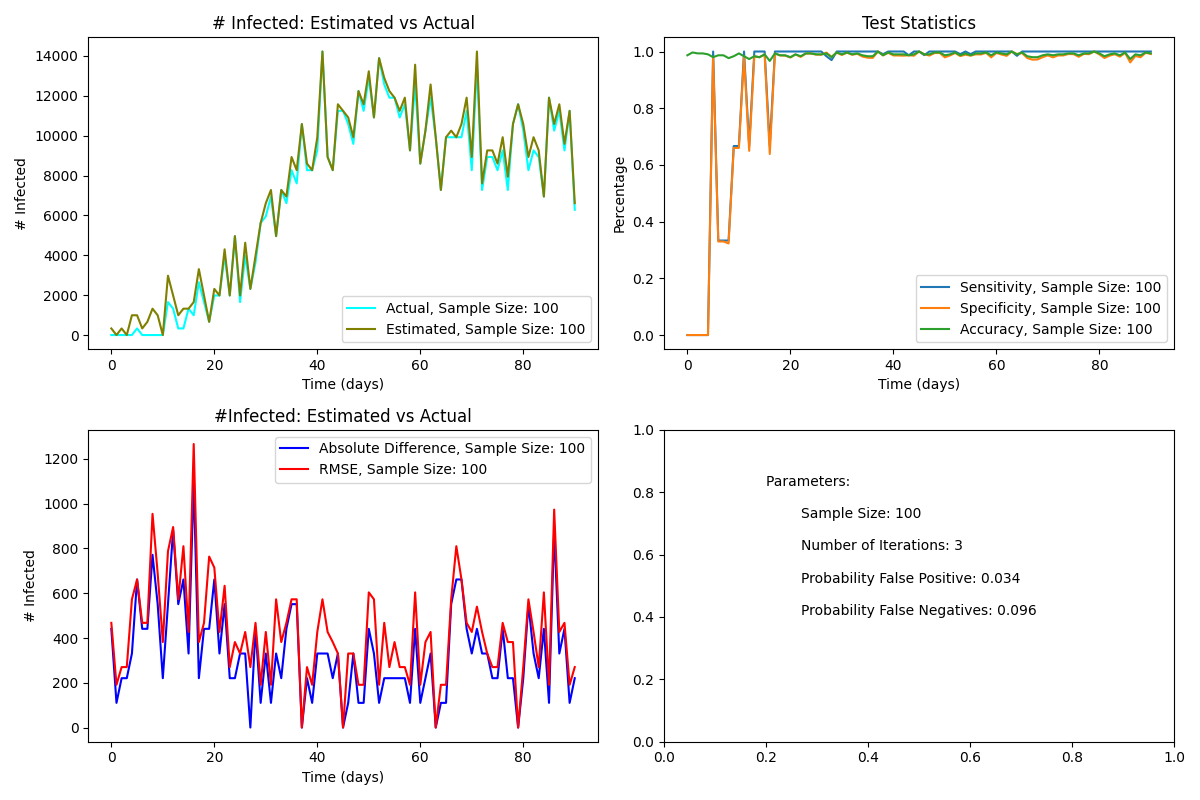
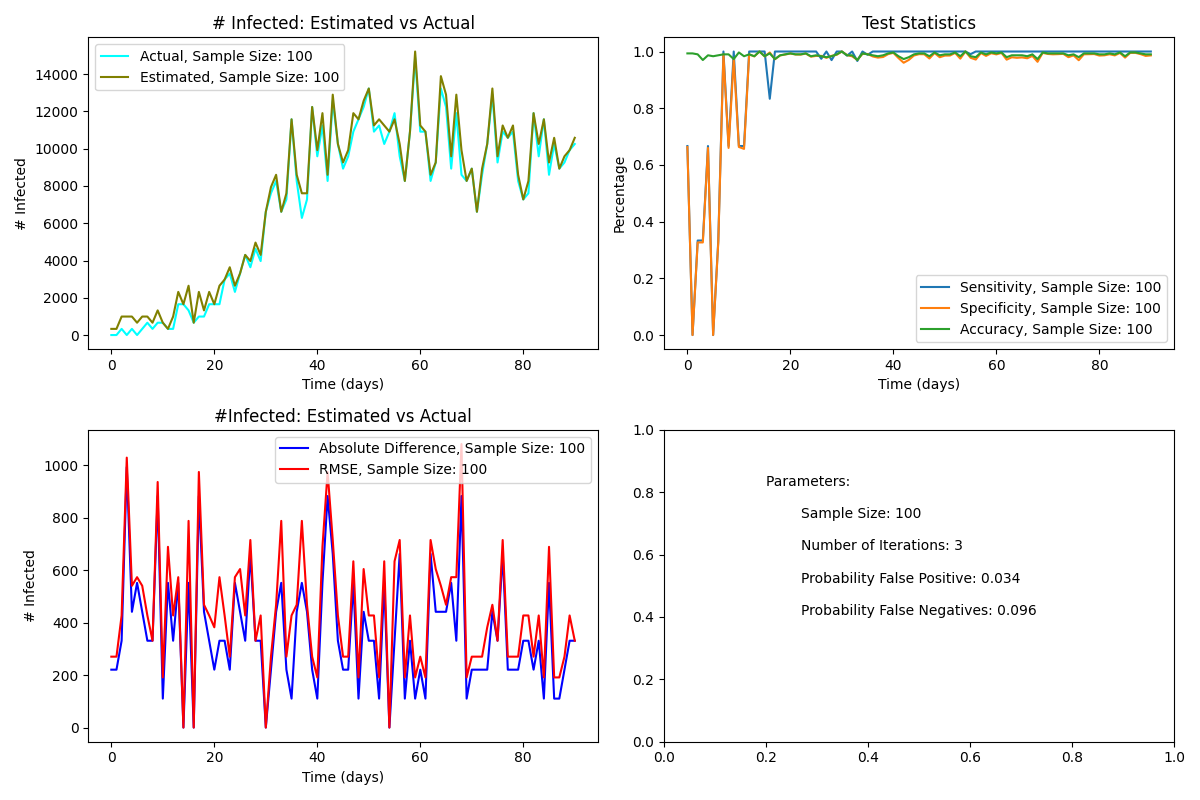
Ran for Region sampler

diff --git a/gibraltar_ex/imperfect_testing_analysis.py b/gibraltar_ex/imperfect_testing_analysis.py
@@ -97,6 +97,7 @@ def analyse_imperfect_testing(sample_times,
 
         # set-up plot pane figure
         fig, [[ax1, ax2], [ax3, ax4]] = plt.subplots(2, 2, figsize=(12, 8), tight_layout=True)
+        fig2, ax21 = plt.subplots()
 
         # initialise empty lists
         total_differences = np.zeros(len(sample_times))
@@ -104,6 +105,8 @@ def analyse_imperfect_testing(sample_times,
         total_sensitivity = np.zeros(len(sample_times))
         total_specificity = np.zeros(len(sample_times))
         total_test_accuracy = np.zeros(len(sample_times))
+        total_sens_ratio = np.zeros(len(sample_times))
+        total_spec_ratio = np.zeros(len(sample_times))
 
         # initialise iteration count
         iteration_count = 0
@@ -182,10 +185,18 @@ def analyse_imperfect_testing(sample_times,
             # calculate # people who are actually infected
             act_infected = [TP[i] + FN[i] for i in range(len(TP))]
 
+            # ratios to test behaviour of sensitivity, specificity
+            sens_ratio = [0 if TP[i] == 0 else TP[i] / FN[i] for i in range(len(TP))]
+            spec_ratio = [0 if TP[i] == 0 else TN[i] / FP[i] for i in range(len(TP))]
+
             # calculate PCR test stats
             sensitivity = [0 if TP[i] == 0 else TP[i] / (TP[i] + FN[i]) for i in range(len(TP))]
             specificity = [0 if TP[i] == 0 else TN[i] / (TN[i] + FP[i]) for i in range(len(TP))]
             test_accuracy = [(TP[i] + TN[i])/(TP[i] + TN[i] + FP[i] + FN[i]) for i in range(len(TP))]
+
+            # add to the ratio totals
+            total_sens_ratio = [total_sens_ratio[i] + sens_ratio[i] for i in range(len(sens_ratio))]
+            total_spec_ratio = [total_spec_ratio[i] + spec_ratio[i] for i in range(len(spec_ratio))]
 
             # add to the stat totals
             total_sensitivity = [total_sensitivity[i] + sensitivity[i] for i in range(len(sensitivity))]
@@ -213,6 +224,8 @@ def analyse_imperfect_testing(sample_times,
         av_sensitivity = [total_sensitivity[i] / num_iterations for i in range(len(total_sensitivity))]
         av_specificity = [total_specificity[i] / num_iterations for i in range(len(total_specificity))]
         av_test_accuracy = [total_test_accuracy[i] / num_iterations for i in range(len(total_test_accuracy))]
+        av_sens_ratio = [total_sens_ratio[i] / num_iterations for i in range(len(total_sens_ratio))]
+        av_spec_ratio = [total_spec_ratio[i] / num_iterations for i in range(len(total_spec_ratio))]
 
         # calculate rmse; root mean squared error
         rmse = [np.sqrt(av_square_difference[i]) for i in range(len(av_square_difference))]
@@ -243,7 +256,8 @@ def analyse_imperfect_testing(sample_times,
         Sample Size: {sample_size} \n
         Number of Iterations: {num_iterations} \n
         Probability False Positive: {false_positive} \n
-        Probability False Negatives: {false_negative}
+        Probability False Negatives: {false_negative} \n
+        Sampler Method: {method}
         """
 
         # add text to figure
@@ -257,6 +271,13 @@ def analyse_imperfect_testing(sample_times,
 
         # save figures
         plt.savefig(f'{path}/truefalsepos_samplesize_{sample_size}.png')
+
+        ax21.plot(sample_times[start_index :], av_sens_ratio[start_index :], label=f"TP/FN, Sample Size: {sample_size}")
+        ax21.plot(sample_times[start_index :], av_spec_ratio[start_index :], label=f"TN/FP, Sample Size: {sample_size}")
+        ax21.set_xlabel('Time (days)')
+        ax21.set_ylabel('Ratios')
+        ax21.set_title('Ratios over time')
+        ax21.legend()
 
     return None
 
